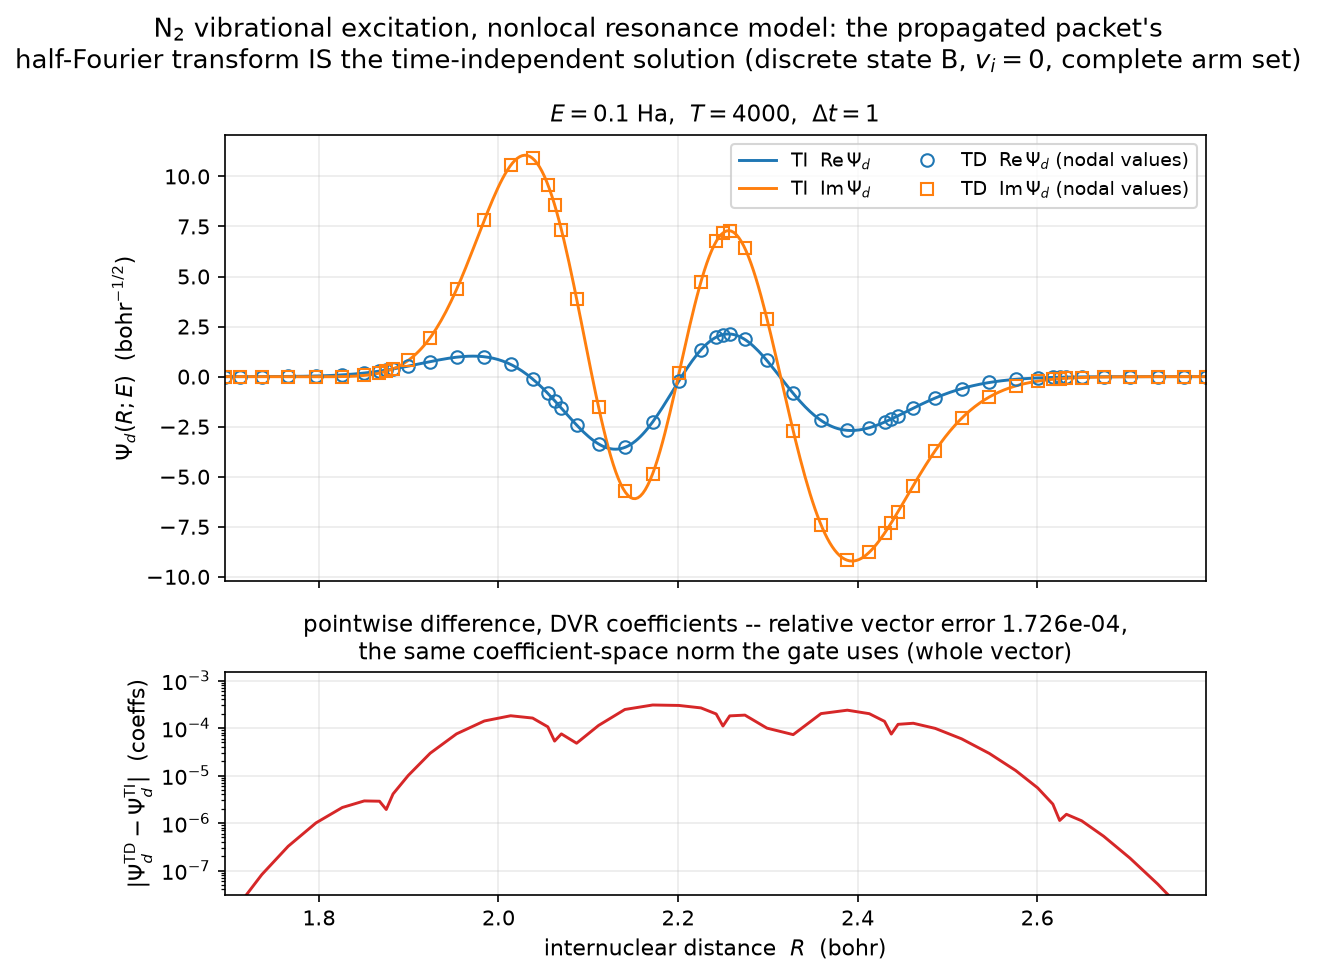
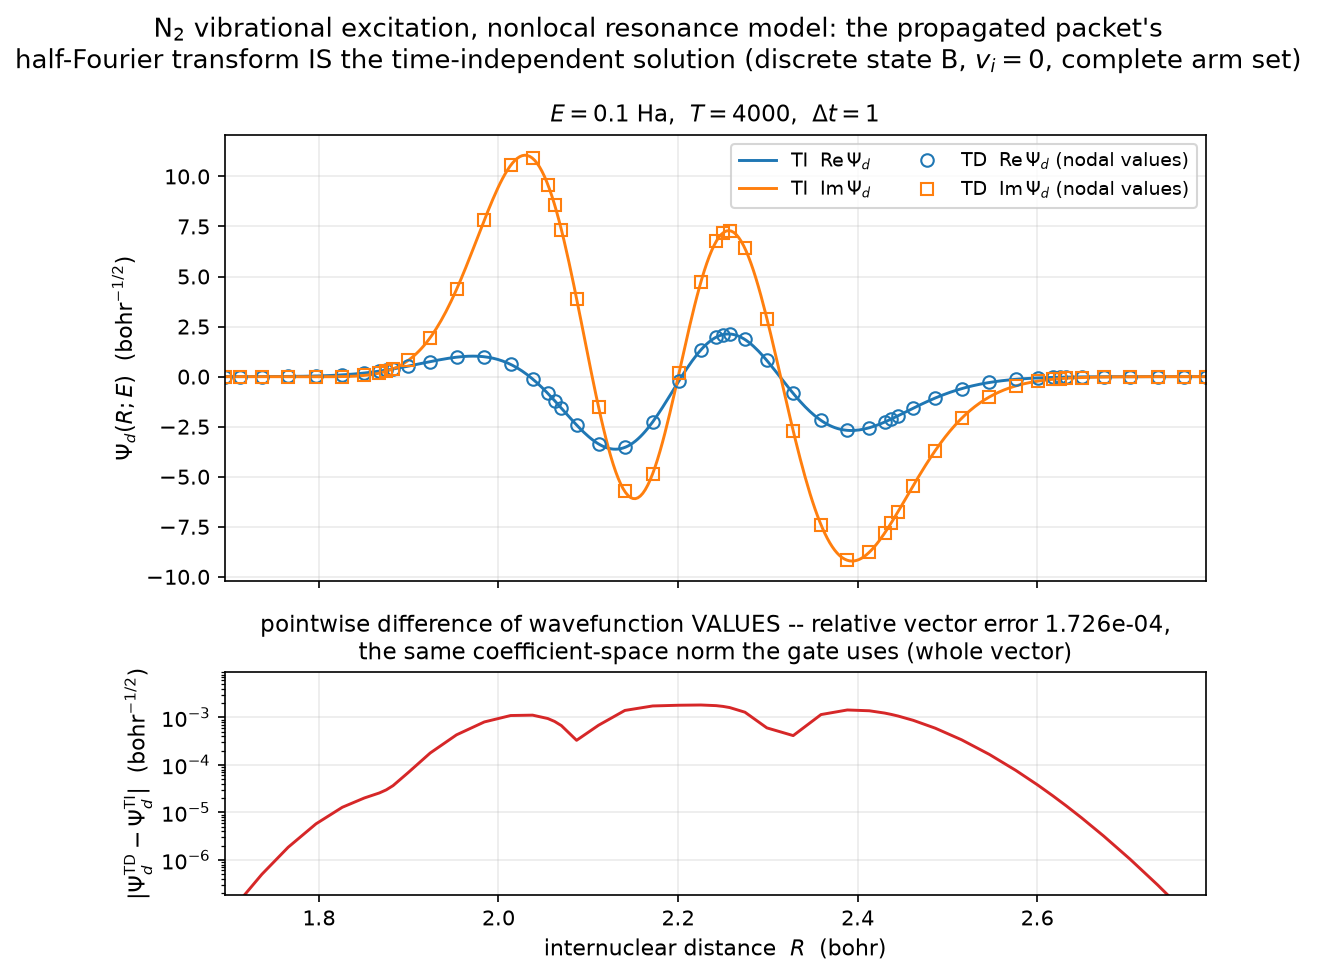
docs(nrm-td): the difference panel plots values too
The bottom panel inherited exactly the defect the top one was fixed for: it
plotted |c_j^TD - c_j^TI|, so the notches at the FEM element bridges were the
sqrt(w_j) discontinuities rather than the disagreement. Dividing both sides by
sqrt(w_j) removes them without changing what is compared.

The quoted rel = 1.7264e-4 is still the coefficient-space norm, because that is
the space the c-product lives in and the space the gate asserts on; the title
says so. The panel shows the physical quantity, which is what a reader reads
off it.

Claude-Session: https://claude.ai/code/session_01NxwNdBLUXBampDLrusGrAS

diff --git a/validation/diatomic/td_nrm_figures.py b/validation/diatomic/td_nrm_figures.py
@@ -1120,7 +1120,15 @@ def render_vector(smoke: bool = False) -> dict[str, Any]:
     r = r[order]
     ti = np.asarray(want)[real][order]
     td = got[real][order]
-    diff = np.abs(td - ti)
+    # The difference panel plots VALUES too. Plotting |c_j^TD - c_j^TI| carries
+    # the same sqrt(w_j) discontinuities the top panel had -- the notches at the
+    # element bridges are the weights, not the disagreement. Dividing both sides
+    # by sqrt(w_j) removes them without touching what is being compared. The
+    # gate's `rel` is still the COEFFICIENT-space norm (that is the space the
+    # c-product lives in) and the title says so; the panel shows the physical
+    # quantity, which is what a reader reads off it.
+    sqrt_w = np.sqrt(deck.nuc.weights[real].real[order])
+    diff = np.abs(td / sqrt_w - ti / sqrt_w)
 
     # `Psi_d` is a resonance wavefunction: on this grid it is confined to
     # R ~ 1.7-3.2 bohr and is flat zero over the rest of the 0-8 bohr real
@@ -1185,10 +1193,10 @@ def render_vector(smoke: bool = False) -> dict[str, Any]:
     ax0.set_title(rf"$E = {VECTOR_ENERGY:g}$ Ha,  $T = {dt * n_steps:g}$,  $\Delta t = {dt:g}$")
 
     ax1.semilogy(r, np.maximum(diff, 1e-30), color="tab:red")
-    ax1.set_ylabel(r"$|\Psi_d^{\mathrm{TD}} - \Psi_d^{\mathrm{TI}}|$  (coeffs)")
+    ax1.set_ylabel(r"$|\Psi_d^{\mathrm{TD}} - \Psi_d^{\mathrm{TI}}|$  (bohr$^{-1/2}$)")
     ax1.set_xlabel(r"internuclear distance  $R$  (bohr)")
     ax1.set_title(
-        f"pointwise difference, DVR coefficients -- relative vector error {rel:.3e},\n"
+        f"pointwise difference of wavefunction VALUES -- relative vector error {rel:.3e},\n"
         "the same coefficient-space norm the gate uses (whole vector)"
     )
     ax1.set_xlim(lo, hi)
